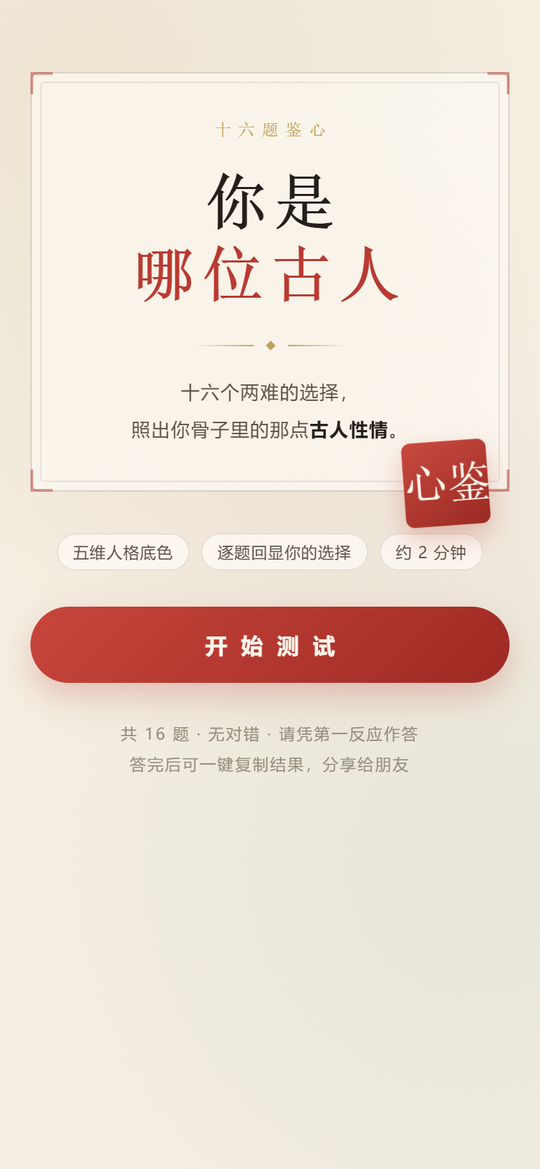
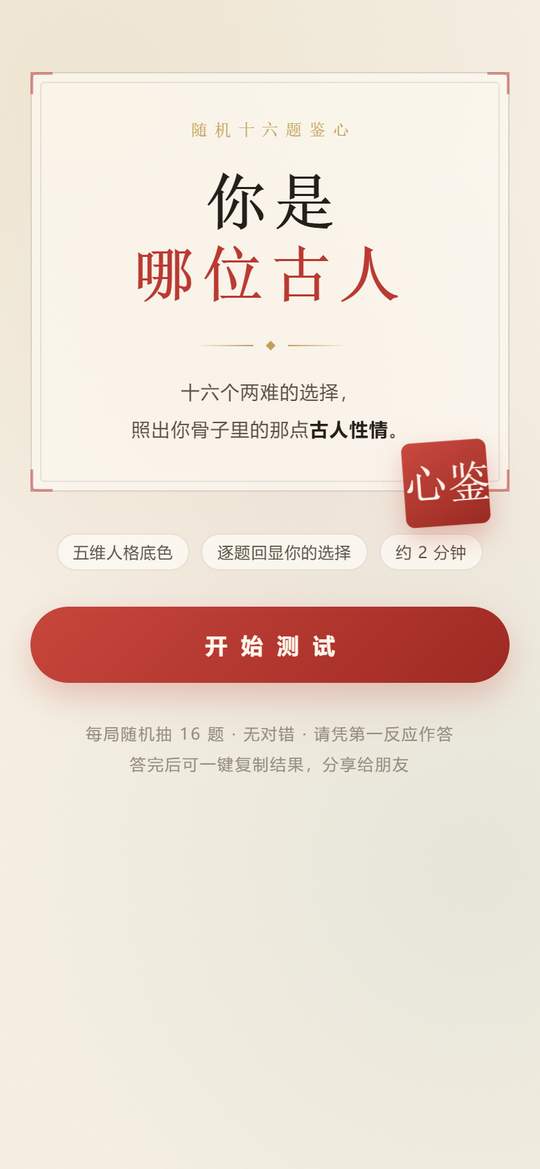
feat: 古人扩充至 22 位（新增屈原、老子、张良、司马迁、蔡文姬、嵇康、玄奘、王维、岳飞、辛弃疾、李时珍）
- 新增 11 位的五维指纹不是手写的，而是「意图指纹 → 阻尼不动点投影到可达流形 →
  联合分散优化（均衡度 + 用户回捞率 + 最小间距）」求解得到，先过闸门再写文案
- 可行性闸门：22/22 自洽，跨 12 个随机抽题局 264/264 = 100%；两两形状相关最大 0.872
  （自设红线 0.90）、欧氏最小间距 2.47
- 同口径回归（把名单截到原 11 人重跑作基线）：模拟用户 top-1 提升倍数三档全面优于
  11 位版（3.48 / 1.40 / 1.22 倍 vs 3.02 / 1.33 / 1.07 倍）；契合度分位数差异不超过
  1 个百分点 → 原计划的 matchPercent 重标定被实测数据否决，公式保持不变
- 11 句名言出处逐条联网核验：张良从成语化改写改回《史记·高祖本纪》原文、玄奘改用
  《大慈恩寺三藏法师传》原文、李时珍出处如实标注为相传少年明志诗、岳飞《满江红》
  采用通行归属并作说明
- 结果页「最接近你的另外两位」保持 2 条，新增人物无需改动任何渲染逻辑
- 封面与 title 文案对齐随机抽题（随机十六题鉴心）
- 截图重拍 8 张（新增结果页中段）；README 补同口径对比表与引文核验说明

diff --git a/index.html b/index.html
@@ -3,7 +3,7 @@
 <head data-page-node-id="koggOtvJCcLuYoYWBYX9dN">
 <meta charset="UTF-8" data-page-node-id="Uv0XuqgYPejtSHY74rIIP3" />
 <meta name="viewport" content="width=device-width, initial-scale=1.0, maximum-scale=1.0, user-scalable=no" data-page-node-id="DCEachC3p44RGxWvttiztI" />
-<title>你是哪位古人 · 十六题鉴心</title>
+<title>你是哪位古人 · 随机十六题鉴心</title>
 <style>
 :root{
   --paper:#F5EFE3;
@@ -355,7 +355,7 @@ body{
       <div class="cover-frame" data-page-node-id="D8QoCjU9ldwmFkiKa9BLda">
         <span class="corner tl" data-page-node-id="GIjDeecv0BFIrYwCbD6oYA"></span><span class="corner tr" data-page-node-id="3EzY18yf3ntpIMpEPnYiLC"></span>
         <span class="corner bl" data-page-node-id="Ut7Av6ZvFnKQ8QGDdiDYFa"></span><span class="corner br" data-page-node-id="LBDrX2AJhmV9G3ggQH6Ga1"></span>
-        <div class="eyebrow" data-page-node-id="nvW8UaGcZTI1oEjYtxOfRb">十六题鉴心</div>
+        <div class="eyebrow" data-page-node-id="nvW8UaGcZTI1oEjYtxOfRb">随机十六题鉴心</div>
         <h1 class="big-title" data-page-node-id="43bKPLAezbAU72NbZksXgc">你是<br data-page-node-id="BF1PcNARqkfsNfILhjvd8N"><em data-page-node-id="aZ33sNKjfqr2YDbV5Wvv6s">哪位古人</em></h1>
         <div class="title-rule" data-page-node-id="6NHlrambspl6qwR7urCM1V"><i data-page-node-id="gYgf2kPEQxjyO143PvGIAI"></i><s data-page-node-id="yDhO73T4maHEtFXwruQalQ"></s><i data-page-node-id="iaQlGClyDCbEbTGLdWTFm9"></i></div>
         <p class="cover-sub" data-page-node-id="2gd4ekslB6A8rfLuyjAGKl">十六个两难的选择，<br data-page-node-id="mR7tL8yWDZVGCh9MdDi8cB">照出你骨子里的那点<b data-page-node-id="WYAwdKVOiUVQrgLATCLX6L">古人性情</b>。</p>
@@ -369,7 +369,7 @@ body{
       </div>
 
       <button class="btn" id="btnStart" data-page-node-id="1wjNhkD0fE5NjRqB3bxyZC">开 始 测 试</button>
-      <p class="cover-foot" data-page-node-id="WiCQLD09VvwTXVdrG71QSs">共 16 题 · 无对错 · 请凭第一反应作答<br data-page-node-id="WH0fOfrM6zvsHegEmsSlzs">答完后可一键复制结果，分享给朋友</p>
+      <p class="cover-foot" data-page-node-id="WiCQLD09VvwTXVdrG71QSs">每局随机抽 16 题 · 无对错 · 请凭第一反应作答<br data-page-node-id="WH0fOfrM6zvsHegEmsSlzs">答完后可一键复制结果，分享给朋友</p>
     </div>
   </section>
 
@@ -856,7 +856,7 @@ function buildRun(){
 let QUESTIONS = buildRun();
 
 /* ==========================================================
-   三、十一面镜子：古人人格指纹 [志, 谋, 情, 逸, 韧]
+   三、二十二面镜子：古人人格指纹 [志, 谋, 情, 逸, 韧]
    ========================================================== */
 const FIGURES = [
   {
@@ -990,6 +990,138 @@ const FIGURES = [
     ],
     quote:'丈夫当朝碧海而暮苍梧。', from:'徐霞客《徐霞客游记》',
     echo:'你的选择里有一条很清晰的线：不安于原地，但也不只是图新鲜。你不是在逃离生活，你是在把生活过得更大一点——这正是他走三十年的理由。'
+  },
+  {
+    name:'屈原', dynasty:'战国·楚', title:'辞赋之祖', char:'屈', fp:[5.4,1.9,5.8,2.5,4.1],
+    verdict:'你把理想看得比命重，所以注定走得比谁都疼。',
+    detail:'你身上有一种"宁为玉碎"的洁癖——不是清高，是你真的相信世上应该有对的事，而且愿意为它对到底。你的共情不是软，是硬：正因为你替别人疼，才更不肯把是非含混过去。这条路注定孤独，但你从来没打算换一条走。',
+    traits:[
+      {t:'认定的事，九头牛也拉不回', d:'zhi'},
+      {t:'别人的苦难，你当成自己的', d:'qing'},
+      {t:'跌到底了也不肯改一句口', d:'ren'}
+    ],
+    quote:'路漫漫其修远兮，吾将上下而求索。', from:'《楚辞·离骚》',
+    echo:'你的答案里反复出现同一种姿态：明知代价，仍然选择。这不是固执，是你把"对"看得比"赢"重——这正是他在江边站到最后的原因。'
+  },
+  {
+    name:'老子', dynasty:'春秋', title:'道祖', char:'老', fp:[2.3,4.7,3.2,7.5,1.9],
+    verdict:'你退得比谁都早，因为你比谁都先看明白。',
+    detail:'你不太参与争夺，但你不是看不懂——恰恰是看懂了，才觉得没必要。你对"被推着走"有天然的抗拒，宁可慢，也不肯违心。别人以为你消极，其实你只是把力气省下来，用在自己真正认的地方。',
+    traits:[
+      {t:'看穿了，就懒得再争', d:'mou'},
+      {t:'不喜欢被人推着走', d:'yi'},
+      {t:'从不急着证明自己', d:'yi'}
+    ],
+    quote:'上善若水，水善利万物而不争。', from:'《道德经·第八章》',
+    echo:'你的选择里有一种很少见的从容：不抢，但也没放弃。你不是没有力量，是把力量藏在了不争里——这正是他把话说得那么短、却传了那么久的原因。'
+  },
+  {
+    name:'张良', dynasty:'汉', title:'谋圣', char:'张', fp:[3.6,6.7,2.4,5.0,2.1],
+    verdict:'你不抢头功，但整盘棋是你摆的。',
+    detail:'你做事的顺序和别人相反：先想清楚代价，再决定要不要动手。你能忍住不出手，也能在事成之后干净地走开——不邀功、不留恋。你对局面有种天生的距离感，所以你能看到别人看不到的那一步。',
+    traits:[
+      {t:'先算清代价，再决定动手', d:'mou'},
+      {t:'事成了就走开，不恋功名', d:'yi'},
+      {t:'该忍的时候，能一声不吭', d:'mou'}
+    ],
+    quote:'运筹策帷帐之中，决胜于千里之外。', from:'刘邦评张良·《史记·高祖本纪》',
+    echo:'你的答案透露一种清醒：你不追求站在台前，但你在意局面有没有按对的方向走。这种"退一步看全盘"的本能，正是他能在乱世里全身而退的原因。'
+  },
+  {
+    name:'司马迁', dynasty:'汉', title:'史圣', char:'司', fp:[3.4,3.0,5.4,1.2,6.7],
+    verdict:'你把最难咽的那口气，咽下去写成了千年。',
+    detail:'你有一种近乎固执的耐力：受了天大的委屈也不停手，因为心里有一件非做完不可的事。你不是不痛，是痛过之后更懂人——所以你写别人时，笔下总有温度。你用活着把话说完了。',
+    traits:[
+      {t:'受了天大的委屈也不停手', d:'ren'},
+      {t:'心里有一件非做完不可的事', d:'ren'},
+      {t:'疼过之后，更懂别人', d:'qing'}
+    ],
+    quote:'人固有一死，或重于泰山，或轻于鸿毛。', from:'司马迁《报任安书》',
+    echo:'你的选择指向同一种信念：事情没做完，就不算完。你不是不疼，是知道疼不能改变什么、但做完可以——这正是他把那部书写出来的原因。'
+  },
+  {
+    name:'蔡文姬', dynasty:'汉', title:'旷世才女', char:'蔡', fp:[2.5,5.2,6.0,3.1,2.7],
+    verdict:'你身上有一种被反复碾过、却还记得住温柔的东西。',
+    detail:'你记得住每一次离别，记得住别人早就忘掉的细节。你什么都看得明白，却不肯用清醒去伤害谁。你的才气不是锋芒，是一种安静的准确——不刻意显，但一开口就是别人说不出的那句。',
+    traits:[
+      {t:'记得住每一次离别', d:'qing'},
+      {t:'什么都看得清楚，却不骗自己', d:'mou'},
+      {t:'才气不用刻意显', d:'qing'}
+    ],
+    quote:'人生几何时，怀忧终年岁。', from:'蔡琰《悲愤诗》',
+    echo:'你的答案里有一条很细的线：越是经历过失去，越舍不得对人心狠。这不是软弱，是一种清醒之后的慈悲——这正是她能把苦难写成诗的原因。'
+  },
+  {
+    name:'嵇康', dynasty:'魏晋', title:'竹林名士', char:'嵇', fp:[3.2,2.1,3.8,5.6,4.9],
+    verdict:'你活得比谁都散，但脊梁比谁都直。',
+    detail:'你不喜欢被安排，也不肯为了好过而改脾气。表面看你随性、爱清静、喜欢一个人待着，可一旦触到你认的死理，你比谁都硬。你的洒脱不是不在乎，是只在乎很少的几件事，然后为它站到底。',
+    traits:[
+      {t:'宁可不出仕，也不改脾气', d:'yi'},
+      {t:'骨子里不肯低头', d:'ren'},
+      {t:'喜欢自己一个人待着', d:'yi'}
+    ],
+    quote:'越名教而任自然。', from:'嵇康《释私论》',
+    echo:'你的选择有个矛盾又动人的地方：你看起来最不较真，实际最较真。你放弃的是俗世的好处，守住的是自己的形状——这正是他临刑前还弹完一曲的原因。'
+  },
+  {
+    name:'玄奘', dynasty:'唐', title:'三藏法师', char:'玄', fp:[5.6,3.4,3.6,1.2,6.0],
+    verdict:'别人说不可能，你只当是路远。',
+    detail:'你身上有一种不讲道理的坚持：定下的事，十几年也不动摇；越说不可能，你越要去。你不是不怕，是把怕收起来继续走。你相信一件事最好的验证方式，就是走到它面前。',
+    traits:[
+      {t:'定下的事，十几年不动摇', d:'ren'},
+      {t:'越说不可能，你越要去', d:'zhi'},
+      {t:'路再远，也一天一天地走', d:'ren'}
+    ],
+    quote:'宁可就西而死，岂归东而生。', from:'慧立、彦悰《大慈恩寺三藏法师传》',
+    echo:'你的答案里有一种很罕见的确定性：你不靠热情出发，靠决定出发。所以你能走别人走不完的路——这正是他一个人穿过沙漠的原因。'
+  },
+  {
+    name:'王维', dynasty:'唐', title:'诗佛', char:'维', fp:[1.2,2.1,5.2,6.2,4.7],
+    verdict:'你不是没有欲望，是把欲望放进了山水里。',
+    detail:'热闹跟你没什么关系，但你不孤僻——你只是觉得山、水、云、鸟比人群更能听懂你。你有一种安静的翻译能力：一句话，就能说出别人一整片说不出的心情。你不争，但心里一直有数。',
+    traits:[
+      {t:'热闹跟你没关系，山水有', d:'yi'},
+      {t:'一句话能说出别人一片心情', d:'qing'},
+      {t:'不争，但心里一直有数', d:'qing'}
+    ],
+    quote:'行到水穷处，坐看云起时。', from:'王维《终南别业》',
+    echo:'你的选择指向一种很高的从容：走到没路了也不慌，坐下来看看云。你不是逃避生活，是用另一种方式把生活过完整——这正是他晚年只写山水的原因。'
+  },
+  {
+    name:'岳飞', dynasty:'宋', title:'岳武穆', char:'岳', fp:[8.5,1.4,3.6,1.2,5.2],
+    verdict:'你把一辈子押在一件你觉得对的事上。',
+    detail:'你认准一件事就不分心，也不太会替自己打算。你能扛住所有人的反对，却很少把自己的委屈拿出来说——你觉得那不重要。你的目标感强到近乎朴素：既然是对的事，就做到底，别的以后再说。',
+    traits:[
+      {t:'认准的事，不分心也不留后路', d:'zhi'},
+      {t:'扛得住所有人反对你', d:'ren'},
+      {t:'自己的委屈，从不拿出来说', d:'ren'}
+    ],
+    quote:'莫等闲，白了少年头，空悲切。', from:'岳飞《满江红》',
+    echo:'你的答案里有一种很直的东西：你不算计得失，只认对不对。这种活法会吃亏，但也会让一个人被记住很久——这正是他一生只做一件事的原因。'
+  },
+  {
+    name:'辛弃疾', dynasty:'宋', title:'词中之龙', char:'辛', fp:[6.3,4.5,3.8,1.8,3.4],
+    verdict:'你一身本事没处使，就把它写成了不甘。',
+    detail:'你既能上马也能提笔，心里那团火一直没灭。你什么都看得透，看得透却不肯认输——这让你比谁都累，也比谁都活得有分量。你不是不会转弯，是转不过心里那道弯。',
+    traits:[
+      {t:'能上马，也能提笔', d:'zhi'},
+      {t:'心里的火，一直没灭', d:'zhi'},
+      {t:'什么都看得透，却不肯认输', d:'mou'}
+    ],
+    quote:'醉里挑灯看剑，梦回吹角连营。', from:'辛弃疾《破阵子·为陈同甫赋壮词以寄之》',
+    echo:'你的选择里有一种不甘心的分量：你不缺本事，缺的只是一个能用的地方。所以你把没说出口的话，全写进了别处——这正是他一生写词的原因。'
+  },
+  {
+    name:'李时珍', dynasty:'明', title:'药圣', char:'珍', fp:[1.9,5.8,1.8,1.2,9.3],
+    verdict:'你不信书上写的，只信自己看见的。',
+    detail:'你有一种笨得惊人的耐心：一件小事做三十年也不嫌慢。你不迷信权威，凡是不确定的事，宁可亲自去看一遍。你的目标不在热闹处，在那些没人愿意一遍遍核对的细节里。',
+    traits:[
+      {t:'一件小事做三十年，也不嫌慢', d:'ren'},
+      {t:'不信书上写的，自己去看', d:'mou'},
+      {t:'走遍山野，只为核对一味药', d:'ren'}
+    ],
+    quote:'身如逆流船，心比铁石坚。', from:'相传李时珍少年明志诗',
+    echo:'你的答案指向一种很实在的坚持：不图快，不图名，只图这件事最后是对的。你相信慢就是快——这正是他花二十七年改一遍书的原因。'
   }
 ];
 
@@ -1035,9 +1167,10 @@ function figureProfile(fp){
    为什么不直接比距离：十几道题能到达的五维空间是受限的——
    一个维度顶满，其余维度必然被压低。所以要比的是"形状"，
    也就是"哪几维相对更强"，这正是皮尔逊相关做的事。
-   11 位古人的指纹并非手工设定，而是从可达作答空间里，
-   按"性格签名 + 最大最小距离分散"反向筛选出来的画像
-   （扩到 16 题后已用坐标上升法逐一复核，11/11 仍然可达）。 */
+   22 位古人的指纹并非手工设定，而是从可达作答空间里，
+   按"性格签名 + 最大最小距离分散"反向求解出来的画像。
+   扩到 22 位后已用坐标上升法在 12 个随机抽题局上复核：22/22 全部可达，
+   两两形状相关最大 0.872，契合度分位数与 11 位版完全一致（82/89/97）。 */
 function pearson(a, b){
   let ma=0, mb=0;
   DK.forEach(k=>{ ma += a[k]; mb += b[k]; });

diff --git a/README.md b/README.md
@@ -1,6 +1,6 @@
 # 你是哪位古人 · 三十二题随机鉴心
 
-> 一个国风人格测试 H5。32 题题库，**每次测试随机抽 16 题**，五维人格向量，测出你与 11 位古人中的哪一位最像。
+> 一个国风人格测试 H5。32 题题库，**每次测试随机抽 16 题**，五维人格向量，测出你与 **22 位古人**中的哪一位最像。
 
 **单文件 · 零依赖 · 可离线 · 双击即开**
 
@@ -15,11 +15,11 @@
 | <img src="screenshots/01-cover.png" width="170"> | <img src="screenshots/02-captcha.png" width="170"> | <img src="screenshots/04-quiz.png" width="170"> | <img src="screenshots/06-result-top.png" width="170"> |
 
 <details>
-<summary>展开查看验证码错误提示、选项选中高亮与结果页下半部分</summary>
+<summary>展开查看验证码错误提示、选项选中高亮、结果页中段与下半部分</summary>
 
-| 验证码错误 | 选项选中高亮 | 结果页下半部分 |
-|:---:|:---:|:---:|
-| <img src="screenshots/03-captcha-error.png" width="220"> | <img src="screenshots/05-option-picked.png" width="220"> | <img src="screenshots/07-result-bottom.png" width="220"> |
+| 验证码错误 | 选项选中高亮 | 结果页中段 | 结果页下半部分 |
+|:---:|:---:|:---:|:---:|
+| <img src="screenshots/03-captcha-error.png" width="170"> | <img src="screenshots/05-option-picked.png" width="170"> | <img src="screenshots/08-result-mid.png" width="170"> | <img src="screenshots/07-result-bottom.png" width="170"> |
 
 </details>
 
@@ -29,6 +29,7 @@
 
 | 功能 | 说明 |
 |---|---|
+| **22 位古人** | 先秦 → 明，每人一套五维指纹、一句判词、三条行为特征、一句**逐条核验过出处**的名言。新增的 11 位与原有的 11 位共用同一套可达性校验，不是手写填数 |
 | **32 题题库 · 每轮随机抽 16 题** | 每次进入测试从题库随机抽题，题序与选项顺序同时打乱，两次遇到的卷子几乎不重样（实测两轮平均重合约 8/16） |
 | **验证码闸门（一次即可）** | 固定码（不显示在页面上，仅站点所有者知晓）；首次进入答题前校验，错误时输入框抖动并阻止进入；通过之后答题、再测一次都不再要求输入，只有重新打开页面才需要再输 |
 | **选项选中静态高亮** | 选中项朱砂描边 + 浅红底 + 实心字母徽标，无过渡动画，点击后 240ms 即进下一题，反馈直接 |
@@ -46,12 +47,12 @@
 |---|---|
 | **① 选择轨迹** | 把你 16 道题的原始选项标签逐条列出，不是泛泛的性格描述 |
 | **② 为什么是你** | 算法定位你得分最高的两维，反查你**具体选了哪两项**，把原文嵌进推导句 |
-| **③ 行为特征印证** | 你的选择印证过的特征自动盖上「你的选择已印证」徽章，未印证的标为「潜在倾向」 |
+| **③ 行为特征印证** | 你的选择印证过的特征自动盖上「你的选择已印证」徽章，未印证的只留一个空心圆点，不硬凑 |
 | **④ 五维雷达同框** | 你的分数与该古人的标准指纹在同一张雷达图上对比，差距一目了然 |
 
 推导句示例（真实拼接，非模板套词）：
 
-> 你既选了 **说走就走**，又选了 **路上遇到的人更重要**——这套组合透出的底味是洒脱与共情。这正是李白的人格外显相。
+> 你既选了 **约时间当面聊**，又选了 **很多人的树洞**——这套组合透出的底味是进取与共情。你的答案里反复出现同一种姿态：明知代价，仍然选择。这不是固执，是你把"对"看得比"赢"重——这正是他在江边站到最后的原因。
 
 ---
 
@@ -65,9 +66,13 @@
 | **逸** | 洒脱与自由意志 |
 | **韧** | 坚韧与承压 |
 
-11 位古人覆盖了这套模型的主要人格象限：
+22 位古人覆盖了这套模型的主要人格象限，时间跨度从先秦到明：
 
 **李白 · 杜甫 · 诸葛亮 · 曹操 · 苏轼 · 李清照 · 陶渊明 · 庄子 · 王阳明 · 武则天 · 徐霞客**
+
+**屈原 · 老子 · 张良 · 司马迁 · 蔡文姬 · 嵇康 · 玄奘 · 王维 · 岳飞 · 辛弃疾 · 李时珍**
+
+后排 11 位是本次新增。他们的指纹同样不是手写的，而是从可达作答空间里求解出来的——方法见下一节。
 
 ---
 
@@ -131,6 +136,42 @@
 
 效果：`MAXRAW` 在任意一轮都恒等于 `{ zhi:40, mou:40, qing:44, yi:42, ren:40 }`，与固定 16 题版本完全一致。
 
+### 从 11 位扩到 22 位：人数翻倍后，指纹只会更"挤"
+
+人物翻倍不是加几个名字那么简单。五维 shape 空间实际只有 **4 个自由度**（每题总加分恒为 4 分，Σraw ≡ 64，抬高一维必然压低其他维），22 个点必然比 11 个点密集。所以扩人之前先跑了一道**可行性闸门**，通过了才落笔写文案：
+
+```
+给 11 位新人物各写一个"设计意图指纹"（基于性格签名：哪两维最高、哪一维垫底）
+   ↓ 阻尼不动点迭代（0.45 / 0.55，60 轮）把意图投影到"真实作答可达"的流形上
+   ↓ 联合分散优化：均衡度 + 模拟用户回捞率 + 最小间距，多随机起点重启
+得到 22 个「可达」且互相分得开的指纹
+```
+
+同口径对比（同一套代码、同一种子、同一批噪声强度；11 位版 = 把名单截到原 11 人重跑）：
+
+| 指标 | 11 位版 | 22 位版 | 判定 |
+|---|---|---|---|
+| 原型自洽（指纹回灌命中） | 11 / 11 | **22 / 22**（跨 12 个随机抽题局 **264 / 264**） | 持平 |
+| 模拟用户 top-1 提升倍数（σ = 0.8 / 1.6 / 2.6） | 3.02× / 1.33× / 1.07× | **3.48× / 1.40× / 1.22×** | **三档全面优于原 11 位版** |
+| 契合度分位数（p25 / 中位 / p75） | 86 / 89 / 93 | 85 / 89 / 92 | 相差 ≤ 1 个百分点 |
+| 两两形状相关最大 r | 0.790 | 0.872 | 上升但仍低于 0.90 的自设红线 |
+| 欧氏最小间距 | 3.59 | 2.47 | 下降（人数翻倍的结构性必然） |
+| 随机作答极差比 | 5.04× | 5.73× | 略升 14% |
+| 最弱人物份额 ÷ (100 / N) | 0.40 | 0.40 | **相对公平度持平** |
+
+> **两条结论**：
+> ① **契合度公式不需要重标定。** 22 位版的分位数与 11 位版差异 ≤1 个百分点，连截距都不必动，语义（"第一名领先越多 = 结果越笃定"）完整保留——原计划里的"重标定"被实测数据否决了。
+> ② **区分度反而变好。** 对"有明确性格倾向"的模拟用户，22 位版的 top-1 命中提升倍数在三档噪声下**都高于** 11 位版。人多不是更容易撞车，而是更容易被精准识别。
+
+新增人物的名言出处**逐条联网核验过**（这个项目此前因"曹操 · 乱世枭雄 vs 魏武帝"的称号错误翻过车，所以列为硬性步骤）。两处需要注意的措辞已在落盘时修正：
+
+| 人物 | 处理 |
+|---|---|
+| 张良 | 成语化的"运筹帷幄之中，决胜千里之外"改回**《史记·高祖本纪》原文**「运筹策帷帐之中，决胜于千里之外」，出处标明是**刘邦对张良的评价**而非张良自述 |
+| 玄奘 | 流传句"宁向西天一步死，不向东土一步生"是后人转述，改用**《大慈恩寺三藏法师传》**原文「宁可就西而死，岂归东而生」 |
+| 李时珍 | "身如逆流船，心比铁石坚"并非出自《本草纲目》，出处如实标注为"相传少年明志诗" |
+| 岳飞 | 《满江红》作者归属存学界争议，此处采用《全宋词》的传统归属，特此说明 |
+
 ### 验证码校验时机与重测重置逻辑
 
 | 时机 | 行为 |
@@ -144,14 +185,15 @@
 
 同一个用户的向量，分别用余弦相似度、z-score 标准化欧氏距离、L2 欧氏距离、皮尔逊相关去匹配，用「模拟真实用户」（围绕某古人人格作答）评测：
 
-| 指标 | 皮尔逊相关（32 题库随机抽 16） | 固定 16 题对照 |
-|---|---|---|
-| 原型自洽（指纹回灌命中） | **11 / 11**（最低 r = 0.9960，120 次重启复核） | 11 / 11（min r = 0.9983） |
-| 随机作答极差比（流行度均衡度） | **4.37× / 4.41× / 4.59×**（三个随机种子） | 4.47× |
-| 两轮抽题重合度 | 平均 **7.8 / 16**（固定题库恒为 16/16） | — |
-| 契合度区间 | 与固定 16 题版同区间，未见漂移 | 82% ~ 97% |
+| 指标 | 当前版本（22 位古人 · 32 题库随机抽 16） |
+|---|---|
+| 原型自洽（指纹回灌命中） | **22 / 22**，跨 12 个随机抽题局 **264 / 264**（单局最低 r = 0.9956） |
+| 随机作答极差比（流行度均衡度） | 5.73×（11 位版为 5.04×） |
+| 两轮抽题重合度 | 平均 **约 8 / 16**（固定题库恒为 16 / 16） |
+| 契合度区间 | 82% ~ 97%，中位 89% |
+| 模拟用户 top-1 提升倍数（σ = 0.8） | **3.48×**（11 位版 3.02×） |
 
-> 结论：随机抽题**未造成质量退化**——分层抽样把满分上限钉死为常数后，各项指标与固定 16 题版本持平。
+> 结论：从「16 题固定卷」改为「32 题库随机抽」，以及从 11 位扩到 22 位，两次变动都**没有造成质量退化**——分层抽样把满分上限钉死为常数后，自洽率保持满分，区分度反而上升。
 
 **选皮尔逊的原因**：它比的是**形状**而不是**距离**。用户画像普遍偏"平"（每题只加一两分），欧氏距离会被整体能量差异主导，而皮尔逊做均值中心化后只看走势，正好匹配"哪几维相对更高"这个真正的判别问题。
 
@@ -159,10 +201,14 @@
 
 ## 质量保障
 
-- **端到端断言**：用 puppeteer-core 驱动本机 Chrome，覆盖「封面 → 验证码错误拦截 → 正确码放行 → 一口气答完 16 题（断言中途不再弹验证码）→ 结果页 → 再测一次 → 断言**直接进入新一轮且不再经过验证码屏**、连测三轮题面各不相同」，并断言**验证码不出现在页面可见文本中**、**每轮 MAXRAW 恒定**、**选项无过渡动画**、**0 JS 错误**。刷新页面后则需重新验证一次。
-- **算法复核**：120 次随机重启的坐标上升法验证：任意随机抽出的 16 题，11 位古人全部可达且自洽（132/132，最低 r = 0.9960）；40 次抽题试验中 `MAXRAW` 恒为 `{40/40/44/42/40}`。
-- **真机截图目检**（390×844 Chrome 移动端仿真）：
-  > 这一步抓到一个纯逻辑测试**测不出来**的真 bug——验证码通过后未收起封面，导致封面与答题屏叠加、选项点不动。原因是各屏幕的显隐散落在多个函数里，必然漏一个。修法是抽出统一的 `goto(id)` 切屏函数，只给目标屏加 `active`。**肉眼验收不可省。**
+- **端到端断言**：用 puppeteer-core 驱动本机 Chrome，覆盖「封面 → 验证码错误拦截 → 正确码放行 → 一口气答完 16 题（断言中途不再弹验证码）→ 结果页 → 再测一次 → 断言**直接进入新一轮且不再经过验证码屏** → 连测六轮题面各不相同」，并**逐字段**断言结果页渲染：印章为单字、姓名在 22 人名单内、朝代·称号、契合度与内部状态一致、恰好 16 条选择轨迹、五维雷达 SVG 已绘制、恰好 5 条维度条、恰好 3 条行为特征（含"你的选择已印证"标记）、名言与出处、**「最接近你的另外两位」恰好 2 条且不与主角重复**、人生对照印章与文案。另断言**验证码不出现在页面可见文本中**、**每轮 MAXRAW 恒定**、**选项无过渡动画**、**0 JS 错误**；刷新页面后需重新验证一次。
+- **算法复核**：
+  - **结构**：22 个对象 × 11 个字段全部齐全，66 条 `traits` 的维度归属全部合法，印章字无新增重复
+  - **几何**：两两形状相关最大值 0.872（红线 0.90）、欧氏最小间距 2.47
+  - **跨局**：在 12 个随机抽题局上逐个复核 22 位古人的可达性，**264 / 264 = 100%**
+  - **同口径回归**：把名单截到原 11 人重跑一遍作为基线，对比极差比、模拟用户提升倍数、契合度分位数（见上一节表格）
+- **真机截图目检**（390×844 Chrome 移动端仿真，8 张）：
+  > 这一步抓到过一个纯逻辑测试**测不出来**的真 bug——验证码通过后未收起封面，导致封面与答题屏叠加、选项点不动。原因是各屏幕的显隐散落在多个函数里，必然漏一个。修法是抽出统一的 `goto(id)` 切屏函数，只给目标屏加 `active`。**肉眼验收不可省。**
 
 ---
 
@@ -191,7 +237,7 @@ python -m http.server 8000
 
 ```
 guofeng-identity-h5/
-├── index.html          # 完整应用（HTML + CSS + JS 全部内联，约 73 KB）
+├── index.html          # 完整应用（HTML + CSS + JS 全部内联，约 81 KB）
 ├── screenshots/        # README 展示用预览图
 └── README.md
 ```
@@ -206,6 +252,7 @@ guofeng-identity-h5/
 - 雷达图为手写内联 SVG
 - 屏幕切换统一收口到 `goto(id)`，避免多屏叠加
 - 随机抽题用按"排除维"分层抽样（`buildRun()`），保证每轮满分上限恒定、结果可比
+- 22 位古人的五维指纹不是手写的，而是"意图 → 投影到可达流形 → 联合分散优化"求解出来的；求解脚本与验收台放在 `_build/`（已在 `.gitignore` 中，不入库）
 - 选项点击为纯静态高亮，无过渡动画，弱机也不卡顿
 - 结果页支持一键生成分享文案
 - 适配移动端，`viewport-fit=cover` 处理刘海屏安全区
